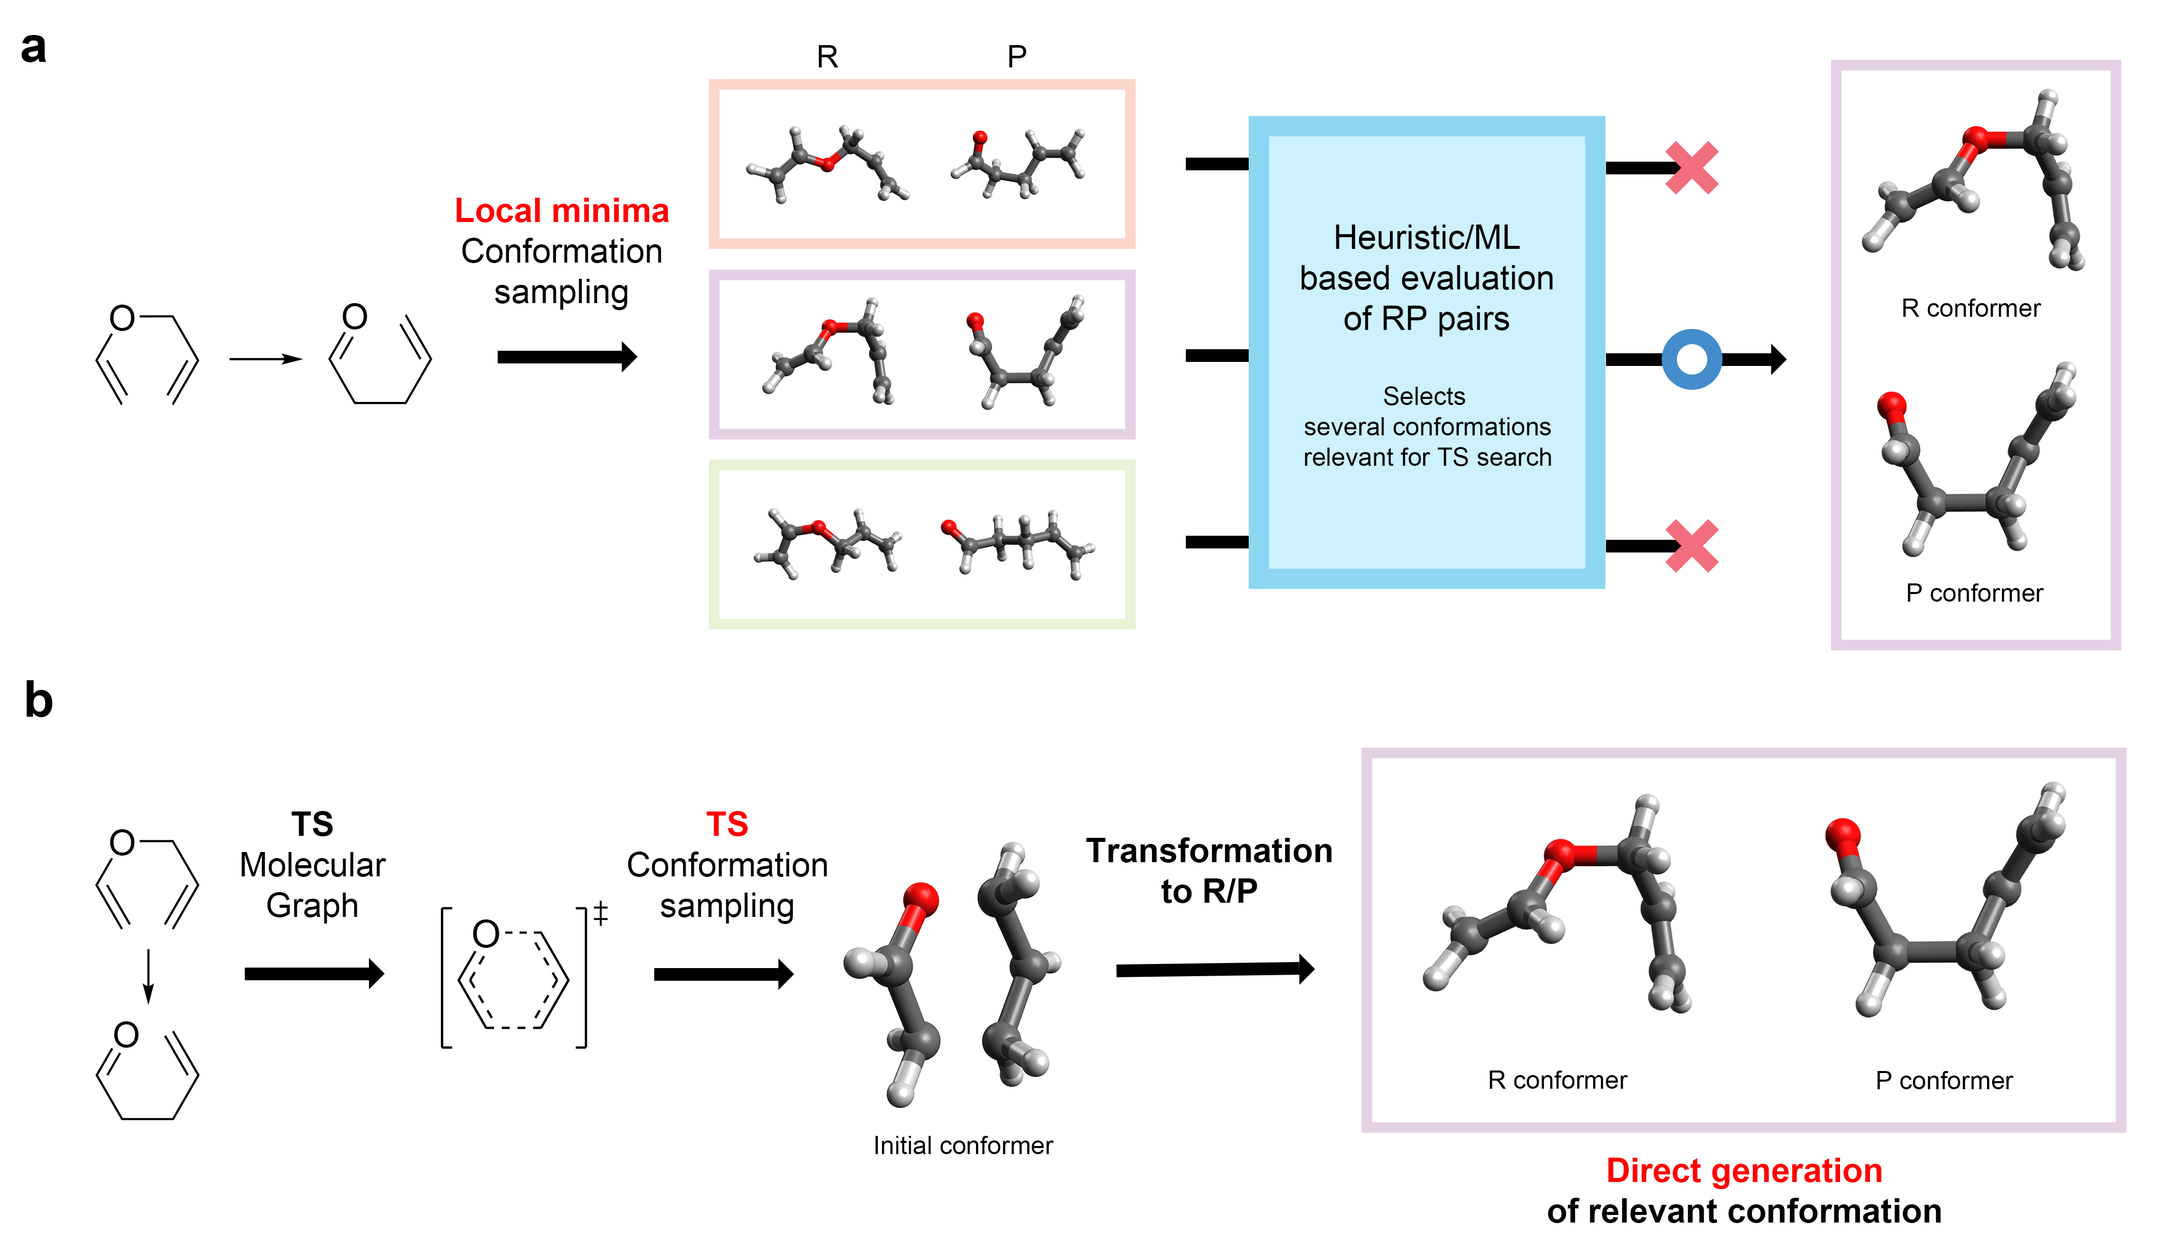
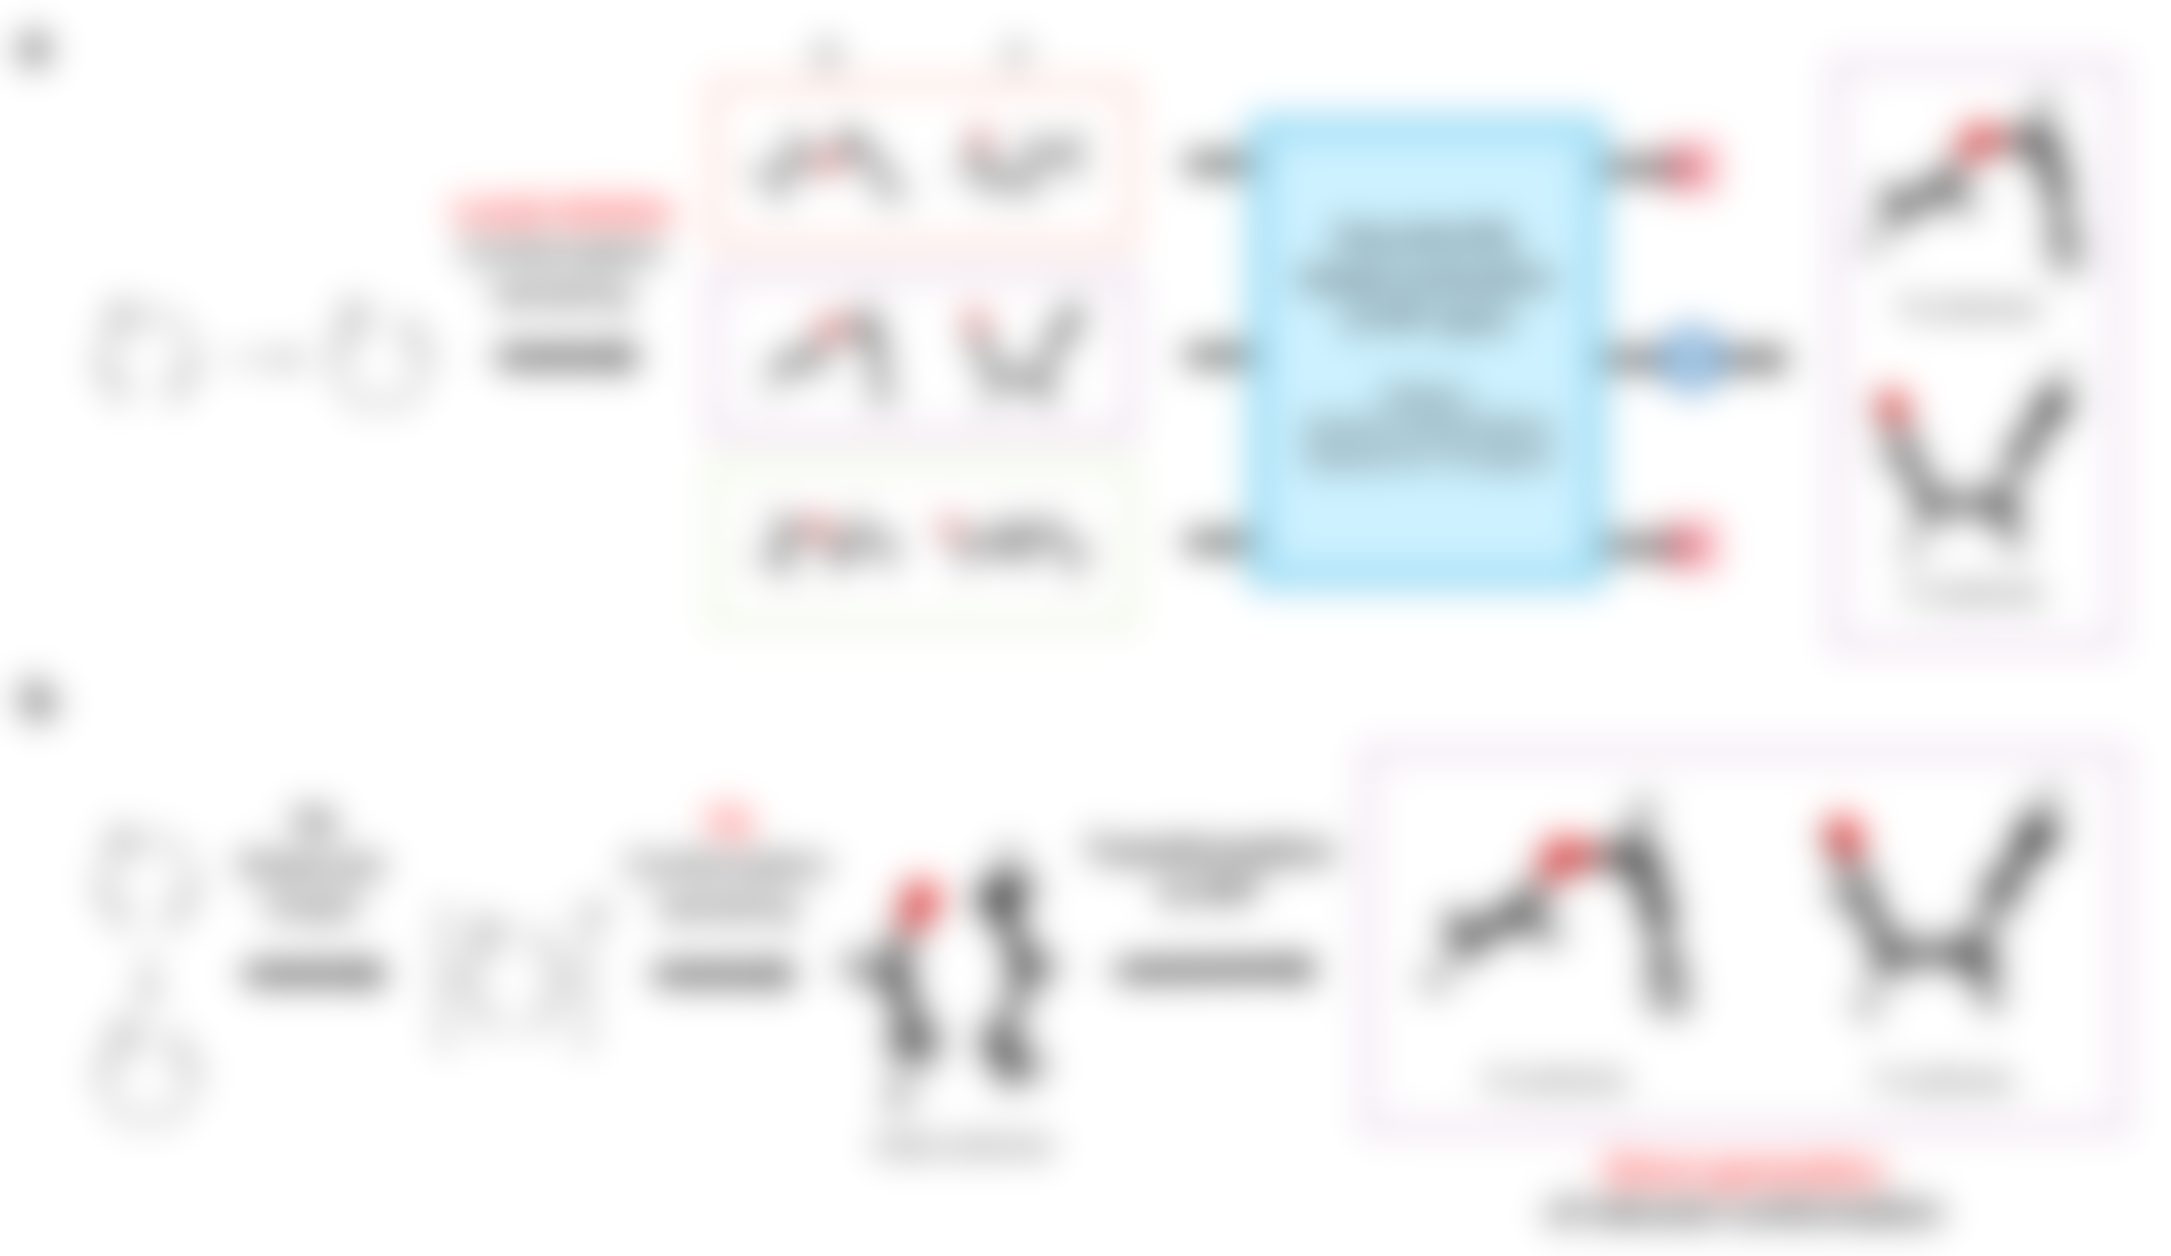
Added gallery and updated info

diff --git a/assets/main.scss b/assets/main.scss
@@ -1,10 +1,119 @@
 ---
-# Only the main Sass file needs front matter (the dashes are enough)
+
 ---
 
 @charset "utf-8";
 
 /* Put any custom CSS here */
+
+#progress-container {
+    width: 100%;
+    height: 5px; /* Height of the progress bar */
+    position: fixed;
+    top: 0;
+    left: 0;
+    z-index: 99; /* Ensures the bar stays on top */
+    background-color: #ffffff; /* Background color of the progress bar */
+}
+
+#progress-bar {
+    height: 100%;
+    background-color: #000000; /* Color of the progress */
+    width: 0%; /* Initial width of the progress bar */
+    transition: width 0.25s ease-out; /* Smooth transition for width change */
+}
+
+.container {
+    display: flex;
+    align-items: center; /* This will vertically center the items */
+
+    /* Add margins */
+    margin-top: 20px;    /* Top margin */
+    margin-bottom: 20px; /* Bottom margin */
+}
+
+.image-container {
+    flex: 1; /* Adjusts the width of the image container */
+}
+
+.image-container img {
+    width: 100%; /* Adjusts the width of the image to fit the container */
+    height: auto; /* Keeps the aspect ratio of the image */
+}
+
+.right-text-container {
+    flex: 2; /* Adjusts the width of the text container */
+    padding-left: 30px; /* Adds some space between the image and the text */
+    font-size: 16px; /* Example font size */
+}
+
+.left-text-container {
+    flex: 2; /* Adjusts the width of the text container */
+    padding-right: 30px; /* Adds some space between the image and the text */
+    font-size: 16px; /* Example font size */
+}
+
+.normal-container {
+    padding-top: 5px;
+    padding-bottom: 12px;
+}
+
+.gray-container {
+    width: 100vw; /* Full viewport width */
+    position: relative; /* Relative positioning */
+    left: 50%; /* Move to the center */
+    margin-left: -50vw; /* Pull back to the left edge */
+    padding-top: 5px;
+    padding-bottom: 15px;
+    background-color: #eeeeee;
+}
+
+.text-shuffle-container {
+    font-size: 2em;
+}
+
+.image-link-container {
+  position: relative;
+  display: inline-block; /* Or display: block; for a full-width container */
+}
+ 
+.image-link-container img {
+    display: block; /* Remove default inline spacing */
+    width: 100vw; /* Full viewport width */
+    height: auto; /* Maintain aspect ratio */
+    filter: blur(2px); /* Apply blur effect */
+    transition: filter 0.1s ease; /* Smooth transition for the blur effect */
+}
+
+.image-link-container:hover img {
+    filter: none; /* Remove blur when hovering */
+}
+  
+.image-link-container a {
+    position: absolute;
+    top: 0;
+    left: 0;
+    right: 0;
+    bottom: 0;
+    display: flex;
+    justify-content: center;
+    align-items: center;
+    text-decoration: none; /* Optional: removes underline from text */
+}
+  
+.image-link-container a span {
+    background: rgba(238, 238, 238, 1); 
+    text-align: center; /* Center the text within the span */
+    width: 100vw; /* Span the full width of the image container */
+    position: absolute; /* Relative positioning */
+    left: 50%; /* Move to the center */
+    margin-left: -50vw; /* Pull back to the left edge */
+    padding: 5px 0;
+    color: black; /* Text color */
+    font-size: 30px; /* Increased font size */
+    box-shadow: 0 0 20px rgba(0, 0, 0, 0.3); /* Optional: adds shadow for depth */
+}
+
 /* noto-serif-kr-regular - latin_korean */
 @font-face {
     font-family: 'Noto Serif KR';

diff --git a/_includes/header.html b/_includes/header.html
@@ -2,11 +2,28 @@
 
   {% I18n_Headers %}
 
+  <div id="progress-container">
+    <div id="progress-bar"></div>
+  </div>
+
+  <script>
+    // Function to update the progress bar
+    function updateProgressBar() {
+        var scrollTop = window.pageYOffset || document.documentElement.scrollTop;
+        var scrollHeight = document.documentElement.scrollHeight - document.documentElement.clientHeight;
+        var scrollPercent = (scrollTop / scrollHeight) * 100;
+        document.getElementById('progress-bar').style.width = scrollPercent + '%';
+    }
+
+    // Event listener for scroll event
+    window.addEventListener('scroll', updateProgressBar);
+  </script>
+
   <div class="wrapper">
     {%- assign default_paths = site.pages | map: "path" -%}
     {%- assign page_paths = site.header_pages | default: default_paths -%}
     <!--<a class="site-title" rel="author" href="{{ "/" | relative_url }}" style="font-family: 'Segoe UI', Tahoma, Geneva, Verdana, sans-serif;">{{ site.data.l10n.title | escape }}</a>-->
-    <a class="site-title" rel="author" href="{{ "/" | relative_url }}">
+    <a class="site-title" rel="author" href="{{ '/' | relative_url }}">
       <img src="/assets/img/name.png" width="200" style="padding: 10px 10px 13px 10px;">
     </a>
 

diff --git a/about/about.html b/about/about.html
@@ -10,13 +10,11 @@ lang: en
 {% endcapture %}
 
 
-Last updated: 2024-01-01
+Last updated: 2024-03-10
 
 <html>
 <head>
     <title>More about me</title>
-    <link rel="stylesheet" type="text/css" href="css/short_intro.css">
-</head>
 <body style="overflow-x: hidden;">
     <div class="container">
         <div class="image-container">
@@ -63,6 +61,12 @@ Last updated: 2024-01-01
         <p>
             {% include section_extractor.html section_name="publications" markdown_content=markdown_content %}
         </p>
+    </div>
+    <div class="image-link-container">
+        <img src="assets/img/gallery/periodic_table_front.png" alt="Gallery">
+        <a href="{{ '/gallery' | relative_url }}" target="">
+        <span>Gallery</span>
+        </a>
     </div>
 </body>
 </html>

diff --git a/_includes/short_intro.html b/_includes/short_intro.html
@@ -1,12 +1,13 @@
 <html>
 <head>
     <title>Short Introduction of Myself</title>
-    <link rel="stylesheet" type="text/css" href="css/short_intro.css">
 </head>
 <body>
     <div class="container">
         <div class="image-container">
-            <img src="assets/img/me.png" alt="Shinyoung Park">
+            <a href="{{ '/about' | relative_url }}">
+                <img src="assets/img/me.png" alt="Shinyoung Park">
+            </a>
         </div>
         <div class="right-text-container">
             <p>

diff --git a/about/about-ko.md b/about/about-ko.md
@@ -7,30 +7,23 @@ lang: ko
 
 # 화학 전공자입니다
 
-안녕하세요? 저는 물리화학, 그리고 계산화학에 관심이 있는 화학과 학부생입니다.
+안녕하세요? 저는 물리화학, 계산화학, 인공지능화학, 그리고 기계학습에 관심이 있는 화학과 학부생입니다.
 
-제가 처음 화학에 관심을 가지게 된 계기는 고등학교에서 화학을 배우면서였습니다. 화학I와 같은 고등학교 화학부터 고급화학, 그리고 유기화학까지 넓고 다양한 범위의 화학을 배울 수 있었으며, 저는 이 와중에 여러 가지 질문을 하고 답하며 크게 성장할 수 있었습니다. 이 블로그에서는 제가 깊이 생각해보았던 질문이나 배움으로 이어지는 질문을 다룰 예정이며 이 블로그가 여러분들에게 큰 도움이 되기를 바랍니다.
+저는 고등학교에서 화학을 배우면서 처음 화학에 관심을 가지게 되었는데요, 화학 I, 고급화학, 유기화학 등 화학 과목을 수강할 때 여러 가지 질문을 골똘히 생각해 보고 답하며 크게 성장할 수 있었습니다. 이때의 경험을 토대로 만든 이 블로그는 제가 깊이 생각해 보았던 질문이나 더 깊은 배움으로 이어지는 질문을 다룰 예정이며, 읽어보시는 여러분께 조금이나마 도움이 되기를 바랍니다.
 
 # 코딩도 취미로 조금씩 합니다
 
-저는 유난히 파이썬을 좋아하여 여러 프로젝트를 진행해보았으며 현재도 진행 중인 프로젝트가 하나쯤은 있을 것입니다.
+저는 파이썬을 좋아하여 여러 프로젝트를 진행해보았으며 현재도 진행 중인 프로젝트가 하나쯤은 있을 것입니다.
 
-다음과 같은 파이썬 모듈을 활용하는데 능합니다:
+다음과 같은 파이썬 라이브러리를 자주 활용하죠:
 
 - NumPy
 - SciPy
 - SimPy
 - Matplotlib
 - Plotly
-- 그리고 앞으로 다른 모듈도 더 많이 써보겠지요?
+- 그리고 앞으로 다른 것도 더 많이 써보겠지요?
 
-제가 진행해 본 프로젝트 중 규모가 가장 컸던 것은 바로 유니티 게임 엔진으로 제작한 '이상 기체 시뮬레이션'입니다. 고등학교 과제연구를 위하여 친구들과 협업한 결과 손쉽게 기체 운동과 관련한 개념을 시각적으로 학습할 수 있는 프로그램을 만들 수 있었습니다. 그 이후로 제가 따로 분자 간 인력(Lennard-Jones 퍼텐셜)과 결합/해리(각각 1차/2차 반응식을 따릅니다)도 추가해보았으며, 이를 통하여 마침내 동적 평형을 보일 수 있었다는 것이 특별히 뿌듯하였습니다. 다만 지금 다시 보니 코드가 좀 난잡한 부분이 있기에 언젠가 처음부터 다시 만들고 싶네요.
+제가 진행해 본 프로젝트 중 규모가 가장 컸던 것은 바로 유니티 게임 엔진으로 제작한 '이상 기체 시뮬레이션'입니다. 고등학교 과제연구를 위하여 친구들과 협업한 결과 손쉽게 기체 운동과 관련한 개념을 시각적으로 학습할 수 있는 프로그램을 만들 수 있었습니다. 그 이후로 제가 따로 분자 간 인력(Lennard-Jones 퍼텐셜)과 결합/해리(각각 1차/2차 반응식을 따릅니다)도 추가해 보았으며, 이를 통하여 마침내 동적 평형을 보일 수 있었다는 것이 특별히 뿌듯하였습니다. 다만 지금 다시 보니 코드가 좀 난잡한 부분이 있기에 언젠가 처음부터 다시 만들고 싶네요.
 
 관심이 있으시다면 제 [GitHub](https://github.com/KeroseneNotForConsumption)도 한 번 둘러보는 것 어떨까요?
-
-# 등유는 먹으면 좋지 않아요
-
-제 닉네임 "KeroseneNotForConsumption"이 조금 이상하기는 하지만 머리에 잘 각인이 된다 생각하여 선택하게 되었습니다. 좀 길기에 그냥 **등유**라고 불려주셔도 될 것 같네요.
-
-딱히 궁금하시지는 않겠지만 등유를 실수로 먹었을 때 취해야 할 응급처치는 등유의 물질 안전 보건 자료 (Material Safety Data Sheet, MSDS)를 통하여 알 수 있습니다. 이에 따르면 구토를 유발하여 등유를 뱉으려 하면 오히려 등유가 폐에 들어가 폐 손상을 입을 수 있다고 합니다. 무엇보다 [2012년 다윈상 수상자](https://darwinawards.com/darwin/darwin2012-03.html)처럼 담배는 피우시지는 마시길 바랍니다.
-

diff --git a/_includes/more-about-me.md b/_includes/more-about-me.md
@@ -25,7 +25,9 @@ s.y.park@kaist.ac.kr / [Download CV as PDF](/assets/CV_shinyoungpark_blog.pdf){:
         <i>Expected August 2025</i>
     </div>
 </div>
-- GPA: 4.28/4.30 (Major GPA: 4.30/4.30)
+<div style="font-size: 14px;">
+    &nbsp;&nbsp;&nbsp;&nbsp; • GPA: 4.28/4.30 (Major GPA: 4.30/4.30)
+</div>
 <!-- education:end -->
 <!-- research:start -->
 ### Research Experience
@@ -93,7 +95,7 @@ s.y.park@kaist.ac.kr / [Download CV as PDF](/assets/CV_shinyoungpark_blog.pdf){:
             <b>Dean's List</b>
         </div>
         <div style="text-align: right;">
-            <i>Spring 2022, Fall 2022, Spring 2023</i>
+            <i>Spring 2022, Fall 2022, Spring 2023, Fall 2023</i>
         </div>
     </div>
     <div style="font-size: 14px;">
@@ -119,7 +121,7 @@ s.y.park@kaist.ac.kr / [Download CV as PDF](/assets/CV_shinyoungpark_blog.pdf){:
 <div style="margin-bottom: 10px;">
     <b>Programming and other Languages</b>
     <div style="font-size: 14px;">
-        &nbsp;&nbsp;&nbsp;&nbsp;Python (most proficient), LaTeX, Markdown, MATLAB, JavaScript
+        &nbsp;&nbsp;&nbsp;&nbsp;Python, LaTeX, Markdown, MATLAB, JavaScript
     </div>
 </div>
 <div style="margin-bottom: 10px;">
@@ -143,7 +145,7 @@ s.y.park@kaist.ac.kr / [Download CV as PDF](/assets/CV_shinyoungpark_blog.pdf){:
 <div style="margin-bottom: 10px;">
     <b>Graphic Design Tools</b>
     <div style="font-size: 14px;">
-        &nbsp;&nbsp;&nbsp;&nbsp;Adobe Photoshop, Adobe Illustrator
+        &nbsp;&nbsp;&nbsp;&nbsp;Photoshop, Illustrator
     </div>
 </div>
 <!-- skills:end -->
@@ -165,6 +167,23 @@ s.y.park@kaist.ac.kr / [Download CV as PDF](/assets/CV_shinyoungpark_blog.pdf){:
         <i>2023</i>
     </div>
 </div>
+<div style="font-size: 14px;">
+    <ul>
+        <li>
+            Provided Korean-English translation of 
+            key announcements and materials for international students.
+        </li>
+        <li>
+            Served as a Korean-English interpreter 
+            at departmental events, fostering inclusivity 
+            within the chemistry student community.
+        </li>
+        <li>
+            Gathered feedback from international students on the Student Council and created            
+            <a href="https://docs.google.com/document/d/1Hyor_w2OxCaH4-l8lbEXmHokLHJ50-0KLozCi69tr8c/edit?usp=sharing">‘A Guide to the Department of Chemistry’</a> — a comprehensive resource featuring various essential information, links, and advices for students interested in chemistry.
+        </li>
+    </ul>
+</div>
 <div style="display: flex; justify-content: space-between;">
     <div style="text-align: left;">
         Member of the Design Team and Academic Affairs Team
@@ -172,6 +191,19 @@ s.y.park@kaist.ac.kr / [Download CV as PDF](/assets/CV_shinyoungpark_blog.pdf){:
     <div style="text-align: right;">
         <i>2022 – 2023</i>
     </div>
+</div>
+<div style="font-size: 14px;">
+    <ul>
+        <li>
+            Planned and designed promotional materials for activities held by the Student Council, including a
+            pamphlet introducing the various labs of the Department of Chemistry and their research to
+            <a href="https://drive.google.com/file/d/1nr9f6e0wuJP0eG0zDnIvJoKZf6fNje--/view?usp=sharing">prospective undergraduate</a> and <a href="https://drive.google.com/file/d/1nF9uVZV89qrqHHxwZyz3Fx5MJhuxC4Wh/view?usp=sharing">graduate students</a>.
+        </li>
+        <li>
+            Facilitated <i>2022 KAIST Chemie Camp</i>, where high school students country-wide 
+            were invited to explore and experience the state-of-the-art chemistry research and education at KAIST.
+        </li>
+    </ul>
 </div>
 <!-- service:end -->
 <!-- publications:start -->

diff --git a/_includes/short_intro.md b/_includes/short_intro.md
@@ -1,8 +1,13 @@
 
 ### Hello! My name is Shinyoung Park! 
 
-I am currently a [chemistry major](https://chem.kaist.ac.kr/) at [Korea Advanced Institute of Science and Technology (KAIST)](https://www.kaist.ac.kr/en/) and an undergraduate researcher in the [Intelligent Chemistry Lab with Professor Woo Youn Kim](https://wooyoun.kaist.ac.kr/).
+I am currently a [chemistry major](https://chem.kaist.ac.kr/) 
+at [Korea Advanced Institute of Science and Technology (KAIST)](https://www.kaist.ac.kr/en/) 
+and an undergraduate researcher in the [Intelligent Chemistry Lab with Professor Woo Youn Kim](https://wooyoun.kaist.ac.kr/).
 
-I am interested in <span id="shuffle-text">physical chemistry.</span><script src="/js/text_shuffle.js"></script>
+I am interested in 
+<span id="shuffle-text">physical chemistry.</span><script src="/js/text_shuffle.js"></script>
 
-While I enjoy working hard researching the topics above, I also enjoy learning and sharing interesting tidbits about chemistry, which was the initial motivation behind this website! 
+While I enjoy working hard researching the topics above, 
+I also enjoy learning and sharing interesting 
+tidbits about chemistry, which was the initial motivation behind this website! 

diff --git a/gallery/gallery-en.md b/gallery/gallery-en.md
@@ -1,0 +1,23 @@
+---
+layout: default
+title: "Gallery"
+permalink: /gallery
+lang: en
+---
+
+# Gallery
+
+### Lab work showcase
+
+![autoCG](/assets/img/about/algorithm_figure.png)
+
+![Model architecture](/assets/img/about/model_arch.png)
+
+### Student Council work showcase
+
+![Periodic table - front](/assets/img/gallery/periodic_table_front.png)
+
+![Periodic table - back](/assets/img/gallery/periodic_table_back.png)
+
+![Banner for Student Council](/assets/img/gallery/chemistry_dept_banner.png)
+

diff --git a/gallery/gallery-ko.md b/gallery/gallery-ko.md
@@ -1,0 +1,23 @@
+---
+layout: default
+title: "겔러리"
+permalink: /gallery
+lang: ko
+---
+
+# 겔러리
+
+### 연구
+
+![autoCG](/assets/img/about/algorithm_figure.png)
+
+![Model architecture](/assets/img/about/model_arch.png)
+
+### 학생회
+
+![Periodic table - front](/assets/img/gallery/periodic_table_front.png)
+
+![Periodic table - back](/assets/img/gallery/periodic_table_back.png)
+
+![Banner for Student Council](/assets/img/gallery/chemistry_dept_banner.png)
+

diff --git a/_posts/ko/2022-08-22-atomic-term-symbols-pt-3.md b/_posts/ko/2022-08-22-atomic-term-symbols-pt-3.md
@@ -207,7 +207,7 @@ F. $^1D$와 $^1D$의 합과 같음
 |:-----:|:-----:|:---------:|:---------:|:-------:|
 |   0   |   0   |     0     |     0     |    0    |
 
-⇒ $^1G$, $^F$, $^1D$, $^1P$, and $^1S$
+⇒ $^1G$, $^1F$, $^1D$, $^1P$, and $^1S$
 
 G. $^1D$와 $^1S$의 합
 

diff --git a/_posts/en/2022-08-22-atomic-term-symbols-pt-3.md b/_posts/en/2022-08-22-atomic-term-symbols-pt-3.md
@@ -206,7 +206,7 @@ F. Adding $^1D$ and $^1D$
 |:-----:|:-----:|:---------:|:---------:|:-------:|
 |   0   |   0   |     0     |     0     |    0    |
 
-⇒ $^1G$, $^F$, $^1D$, $^1P$, and $^1S$
+⇒ $^1G$, $^1F$, $^1D$, $^1P$, and $^1S$
 
 G. Adding $^1D$ and $^1S$ 
 
